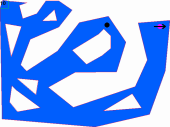
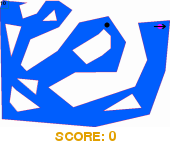
add score read/write + its display

diff --git a/data.py b/data.py
@@ -3,6 +3,7 @@ import pygame
 from main import WINDOW_SIZE
 import numpy as np
 import json
+import csv
 
 
 def read_map(level):
@@ -48,7 +49,22 @@ def save_map(field, level):
     else:
         field = pygame.transform.smoothscale(field,
                                              (field_rect / coefficients[1]).astype(int))
-    pygame.image.save_extended(field, os.path.join(os.path.dirname(__file__),
+
+    print(level, get_levels_scores())
+    score = get_levels_scores().get(level, 0)
+
+    font = pygame.font.Font(None, 20)
+    text = font.render(f"SCORE: {score}", 1, pygame.Color('#e2a000'))
+    field_w, field_h = field.get_size()
+    new_field = pygame.Surface((field_w, field_h + text.get_height() + 6), pygame.SRCALPHA)
+
+    new_field.blit(field, (0, 0))
+    text_rect = text.get_rect()
+    text_rect.centerx = field_w // 2
+    text_rect.top = field_h + 3
+    new_field.blit(text, text_rect)
+
+    pygame.image.save_extended(new_field, os.path.join(os.path.dirname(__file__),
                                                    'images/levels', "level_" + str(level) + ".png"))
 
 
@@ -105,4 +121,16 @@ def number_of_levels():
 
     :return: number of levels available.
     """
-    return len(os.listdir(path=os.path.join(os.path.dirname(__file__), 'levels')))
+    return len(os.listdir(path=os.path.join(os.path.dirname(__file__), 'levels'))) - 1
+
+def get_levels_scores():
+    with open(os.path.join("levels", "high_scores.txt"), "r",  encoding="utf8") as f:
+        data = {int(x): int(y) for line in f.readlines() for x, y in [tuple(line.split())]}
+    return data
+
+def write_score(level, score):
+    data = get_levels_scores()
+    if data[level] < score:
+        data[level] = score
+        with open(os.path.join("levels", "high_scores.txt"), "w", encoding="utf8") as f:
+            f.write("\n".join([f"{k} {v}" for k, v in data.items()]))

diff --git a/game.py b/game.py
@@ -21,6 +21,7 @@ class Game:
         self.all_sprites = pygame.sprite.Group()
 
         self.win = False
+        self.level = level
 
         self.ball = None
         self.cue = None
@@ -77,7 +78,7 @@ class Game:
         text_w = text.get_width()
         text_h = text.get_height()
         self.field.blit(text, (text_x, text_y))
-        pygame.draw.rect(self.field, (0, 255, 0), (text_x - 10, text_y - 10,
+        pygame.draw.rect(self.field, pygame.Color("#13a708"), (text_x - 10, text_y - 10,
                                                text_w + 20, text_h + 20), 1)
 
     def reduce_score(self, value):
@@ -135,6 +136,7 @@ class Game:
         if self.pocket.check_win(self.ball.pos):
             self.ball.vel = np.zeros(2, dtype=float)
             self.win = True
+            data.write_score(self.level, self.score)
 
 
 class Constructor:
